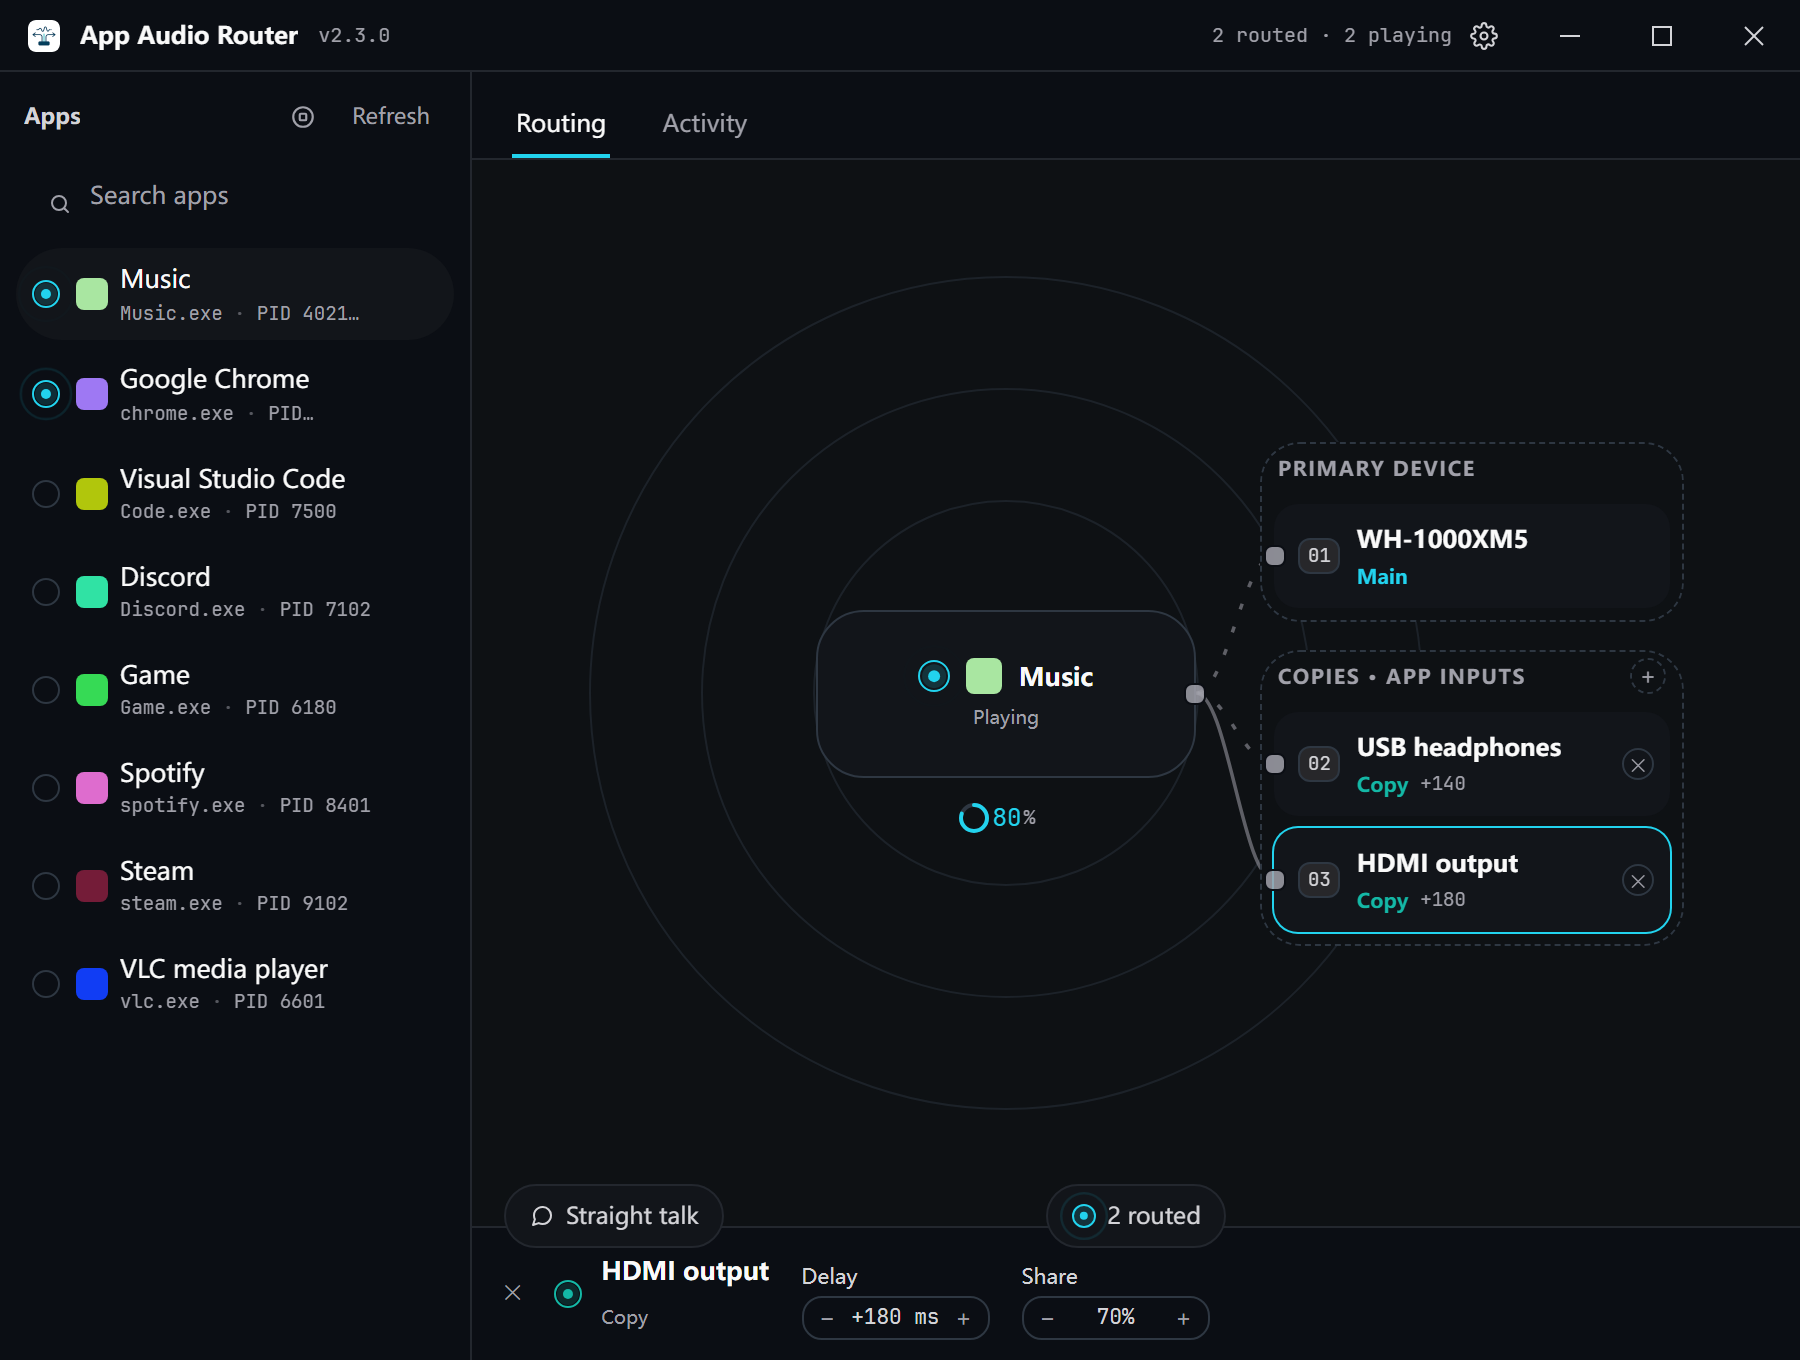
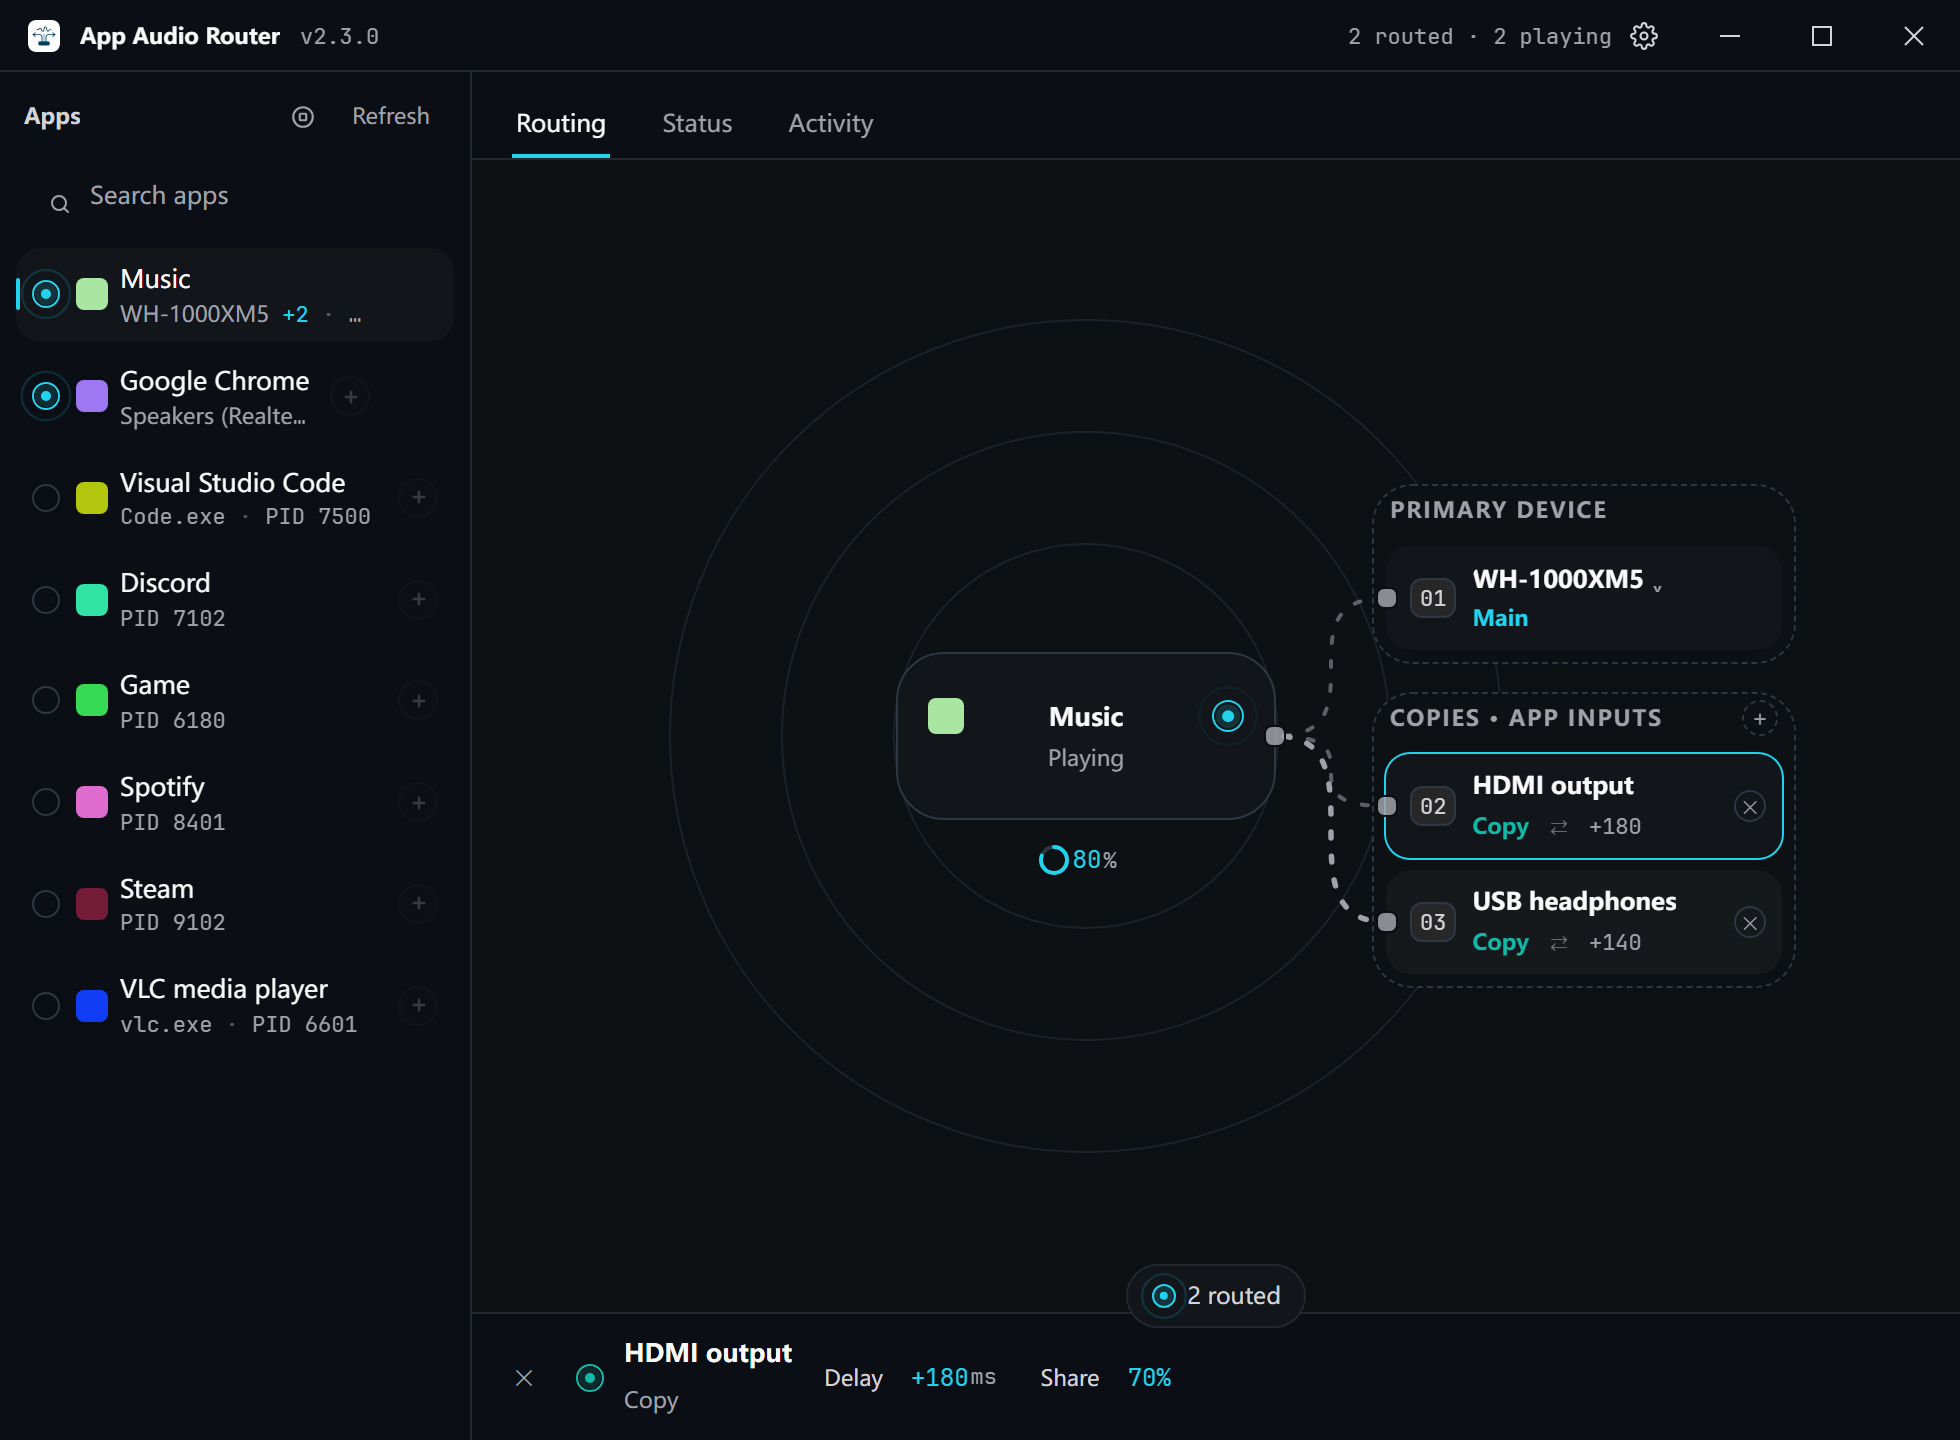
docs: the README shots are of the interface that ships
The checked-in screenshots were from 11 October: two tabs (the briefing page
arrived on the 21st), the old 900px window, the old type and the old accent.
Re-captured at the window's new default size, and the rail's record line was
reordered on the way: the destination now leads, because that is what the row
was re-sorted to say — a line of three facts truncated the last one, which used
to be where the sound goes.

The app list's rows carry the executable as a hook now. A program whose window
name is its file name prints that name once rather than twice, so the words on
a row are no longer a reliable way to find it.

diff --git a/src/components/ProgramRail.tsx b/src/components/ProgramRail.tsx
@@ -415,6 +415,9 @@ const RailRow = memo(function RailRow({
     <motion.div
       layout
       data-rail-row={session.pid}
+      // The identity, for anything addressing the row by the program rather
+      // than by the words the window happens to be calling it.
+      data-exe={session.exe_name}
       initial={{ opacity: 0 }}
       animate={{ opacity: 1 }}
       exit={{ opacity: 0 }}
@@ -486,28 +489,37 @@ const RailRow = memo(function RailRow({
             <span className="block truncate text-[12.5px] font-medium text-text-primary">
               {name}
             </span>
-            {/* PID, the exe it really is when the window names it
-              differently, and — only once something has actually been
-              routed — where its sound goes. */}
-            <span className="block truncate font-mono text-xs tabular-nums text-text-muted">
-              {exeDiffers && (
+            {/* One identity, and where the sound goes once there is somewhere to
+              say. Two segments at most: the row is 236px wide and a line that
+              carries three facts truncates the last one — which used to be the
+              destination and is now the PID. Whatever falls off the end is in
+              the tooltip, so nothing is lost, only ordered. */}
+            <span
+              title={`${session.exe_name} · ${t('rail.pid', { pid: session.pid })}${through !== null && targets.length > 0 ? ` → ${through}` : ''}`}
+              className="block truncate font-mono text-xs tabular-nums text-text-muted"
+            >
+              {through !== null && targets.length > 0 ? (
                 <>
-                  {session.exe_name}
-                  <span aria-hidden="true" className="opacity-50">
-                    {' · '}
-                  </span>
-                </>
-              )}
-              {t('rail.pid', { pid: session.pid })}
-              {targets.length > 0 && through !== null && (
-                <>
-                  <span aria-hidden="true" className="opacity-50">
-                    {' · '}
-                  </span>
                   <span className="font-sans">{through}</span>
                   {targets.length > 1 && (
                     <span className="text-accent"> +{targets.length - 1}</span>
                   )}
+                  <span aria-hidden="true" className="opacity-50">
+                    {' · '}
+                  </span>
+                  {t('rail.pid', { pid: session.pid })}
+                </>
+              ) : (
+                <>
+                  {exeDiffers && (
+                    <>
+                      {session.exe_name}
+                      <span aria-hidden="true" className="opacity-50">
+                        {' · '}
+                      </span>
+                    </>
+                  )}
+                  {t('rail.pid', { pid: session.pid })}
                 </>
               )}
             </span>

diff --git a/e2e/screenshots.spec.ts b/e2e/screenshots.spec.ts
@@ -18,8 +18,9 @@ import { installBridge, type BridgeState } from './tauri/bridge';
 
 const ENABLED = process.env.CAPTURE_SCREENSHOTS === '1';
 
-/** The default window size, at 2× for a screen that is not a retina one. */
-test.use({ viewport: { width: 900, height: 680 }, deviceScaleFactor: 2 });
+/** The default window size (`tauri.conf.json`), at 2× for a screen that is
+ *  not a retina one. */
+test.use({ viewport: { width: 980, height: 720 }, deviceScaleFactor: 2 });
 
 test.skip(
   !ENABLED,
@@ -81,7 +82,7 @@ for (const theme of ['light', 'dark'] as const) {
     await installBridge(page, STATE);
     await page.goto('/');
     await expect(page.getByRole('heading', { name: 'Apps' })).toBeVisible();
-    await expect(page.getByText('Music.exe').first()).toBeVisible();
+    await expect(appRow(page, 'Music.exe')).toBeVisible();
 
     // Selecting the programme stages the system default device as the seat, so
     // the shot's route is the headset plus the two wired outputs it is copied

diff --git a/e2e/fixtures.ts b/e2e/fixtures.ts
@@ -108,9 +108,15 @@ export function deviceRowShell(page: Page, name: string) {
   return page.locator('main [data-device-row]').filter({ hasText: name });
 }
 
-/** One row of the app list. */
+/**
+ * One row of the app list, by the executable it routes by.
+ *
+ * Addressed through the row's own hook rather than by its words: a program whose
+ * window name is its file name prints the name once, not twice, so the text a
+ * row carries is no longer a reliable address for it.
+ */
 export function appRow(page: Page, exeName: string) {
-  return page.locator('aside button').filter({ hasText: exeName });
+  return page.locator(`aside [data-exe="${exeName}"] button`).first();
 }
 
 /**
